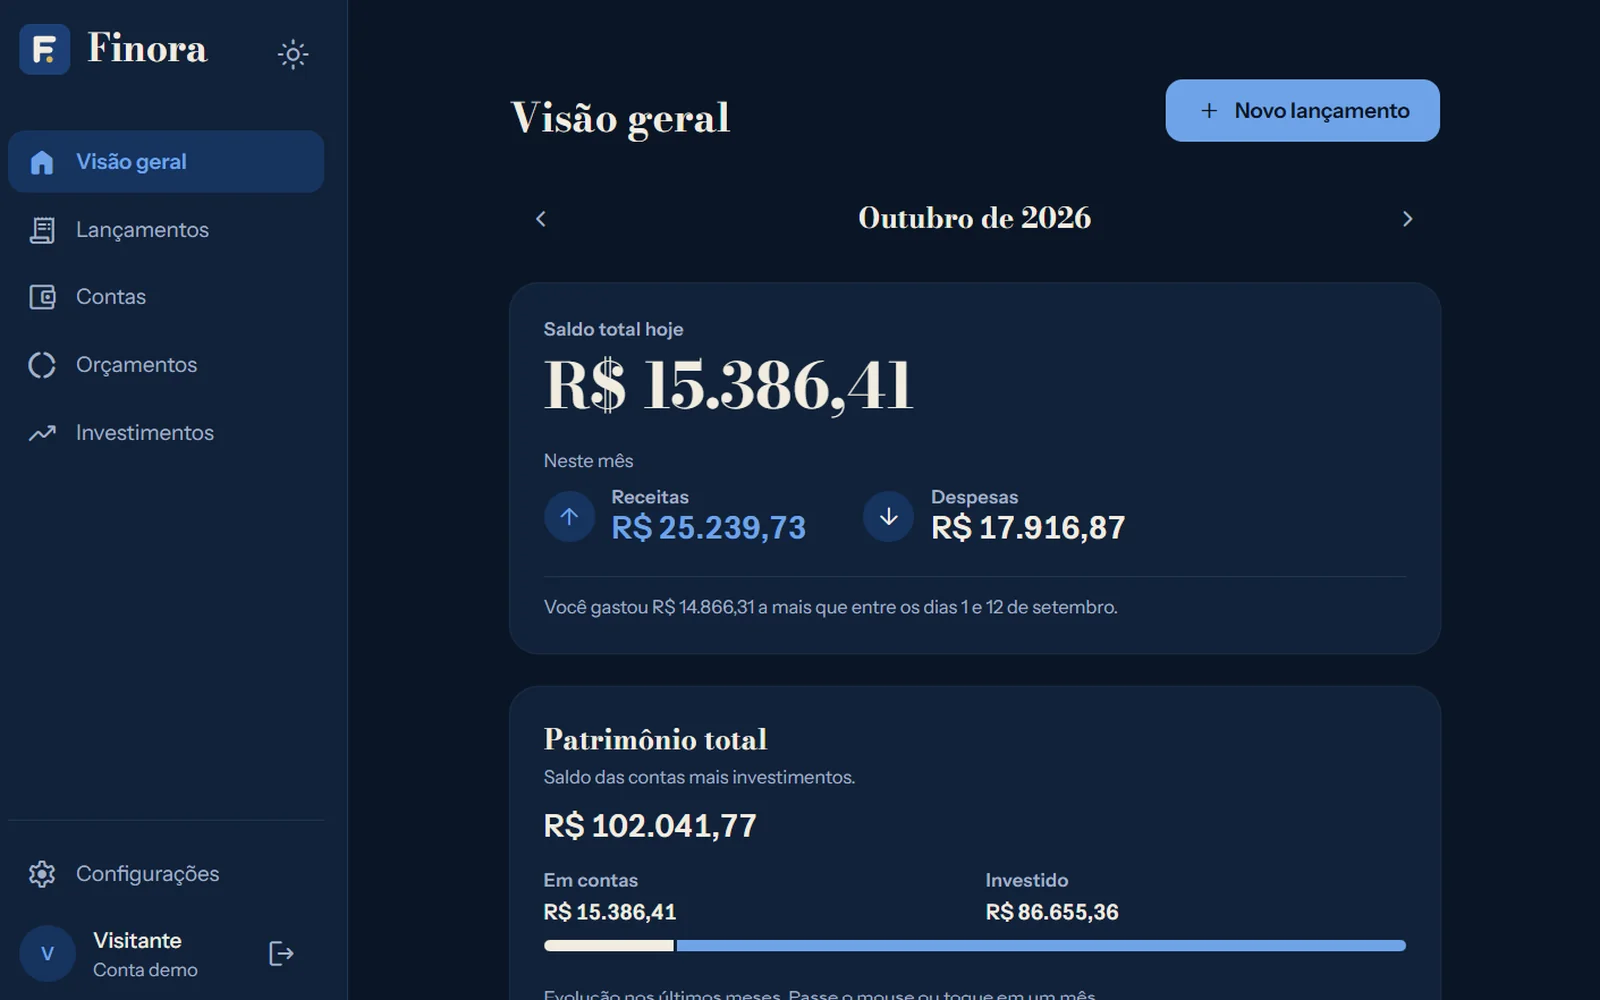
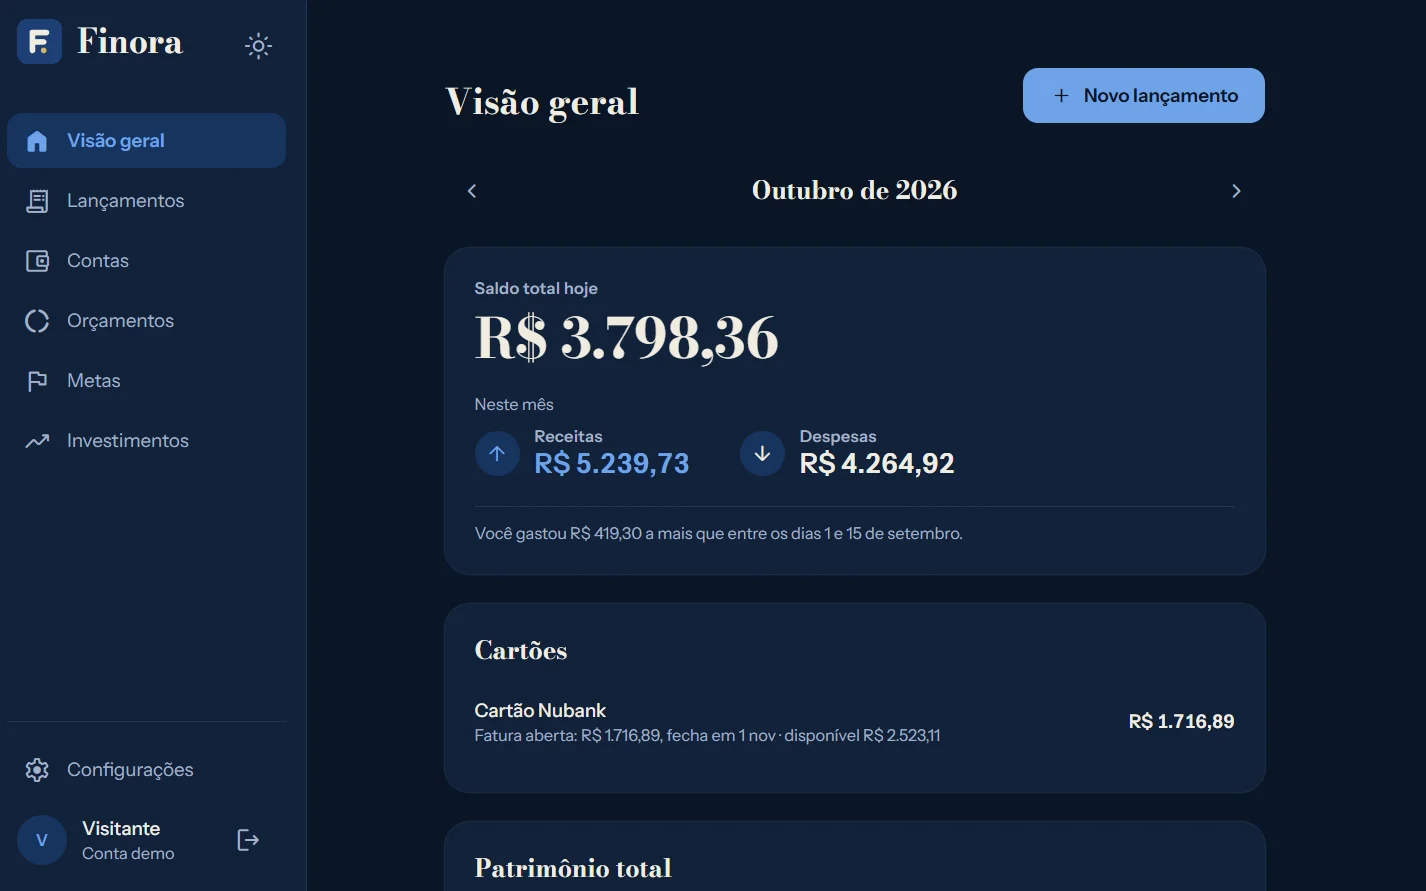
Atualiza o case do Finora com as novas funcionalidades e print novo

diff --git a/src/data/projects.js b/src/data/projects.js
@@ -5,33 +5,38 @@ export const projects = [
     id: 'finora',
     title: 'Finora',
     featured: true,
-    category: 'Aplicação Web Full-Stack',
+    category: 'Aplicação web full-stack · Projeto pessoal',
     year: '2026',
     summary:
-      'App web de gestão financeira pessoal que mostra para onde vai o seu dinheiro e acompanha seus investimentos com cotações reais.',
+      'App de finanças pessoais que mostra para onde vai o seu dinheiro: faturas de cartão, orçamentos, metas e investimentos com cotações reais, além da Clara, uma assistente com IA que responde perguntas sobre os seus próprios números. Instala no celular como app e funciona offline.',
     stack: [
       'Next.js 16',
       'TypeScript',
       'Tailwind CSS 4',
       'Supabase (Postgres, Auth, RLS, pg_cron)',
+      'Gemini (IA)',
+      'PWA · Web Push',
       'Zod',
       'Vitest',
+      'Playwright',
       'GitHub Actions',
       'Vercel',
     ],
     problem:
       'Controlar finanças costuma exigir planilhas espalhadas: os gastos ficam num lugar, os investimentos em outro, e ninguém sabe ao certo para onde o dinheiro foi no mês nem quanto vale o patrimônio hoje.',
     solution:
-      'O Finora junta tudo em um só lugar. Mostra receitas, despesas e gastos por categoria, avisa quando um orçamento está perto do limite e lança contas recorrentes sozinho. Importa extratos OFX/CSV com categorização automática e detecção de duplicados. Calcula ações, FIIs, cripto e renda fixa (CDI, Selic e IPCA do Banco Central) com cotações do dia e preço médio. A segurança fica no banco de dados, com Row Level Security em todas as tabelas.',
+      'O Finora junta tudo em um só lugar: contas, faturas de cartão com parcelas e limite disponível, orçamentos com alertas, metas de economia e lançamentos recorrentes criados sozinhos. Importa extratos OFX/CSV com categorias sugeridas a partir do seu histórico e detecção de duplicados. Calcula ações, FIIs, cripto e renda fixa (CDI, Selic e IPCA do Banco Central) com cotações do dia e preço médio. A Clara responde perguntas como "quanto gastei com Uber em agosto?" usando só ferramentas de leitura, mostrando de onde vieram os números. No celular, instala como app, abre offline, guarda lançamentos feitos sem internet e avisa de fatura perto do vencimento. A segurança fica no banco, com Row Level Security em todas as tabelas, inclusive para a IA.',
     result:
-      'Projeto em desenvolvimento. O MVP já está funcional, com as 8 fases planejadas concluídas: lançamentos, dashboard, orçamentos, recorrentes, importação de extratos, investimentos, renda fixa e patrimônio total. Tem mais de 100 testes automatizados, CI no GitHub e uma conta demo com dados de exemplo que voltam ao original toda noite. Já está publicado na Vercel; o próximo passo é o login com Google.',
+      'As 13 fases planejadas estão concluídas e o app está publicado na Vercel, com login por email, Google ou conta demo (seis meses de dados que voltam ao original toda noite). Tem 156 testes unitários e 20 testes ponta a ponta com Playwright, rodando no CI a cada push, além de monitoramento de erros próprio. No Lighthouse, a página de login tira 100 em acessibilidade, boas práticas e SEO.',
     links: {
       repo: 'https://github.com/mateusnchaves/Finora',
       demo: 'https://finora-wl7u.vercel.app/login',
     },
     image: {
       src: './assets/projects/finora.webp',
-      alt: 'Tela do Finora mostrando o resumo do mês.',
+      alt: 'Visão geral do Finora no tema escuro: saldo total, receitas e despesas do mês e a fatura aberta do cartão.',
+      width: 1426,
+      height: 891,
     },
   },
 {

diff --git a/src/data/currently.js b/src/data/currently.js
@@ -6,7 +6,7 @@ export const currently = {
   updated: '2026-10',
   items: [
     { label: 'Studying', text: 'Análise e Desenvolvimento de Sistemas na Facens, 4º semestre, com foco em projetos full-stack.' },
-    { label: 'Building', text: 'Finora, meu app de finanças pessoais: próximo passo é o login com Google.' },
+    { label: 'Building', text: 'Finora, meu app de finanças pessoais, agora com assistente de IA e versão instalável no celular.' },
     { label: 'Exploring', text: 'Automação de processos, dados e novas tecnologias.' },
   ],
   availability: {
